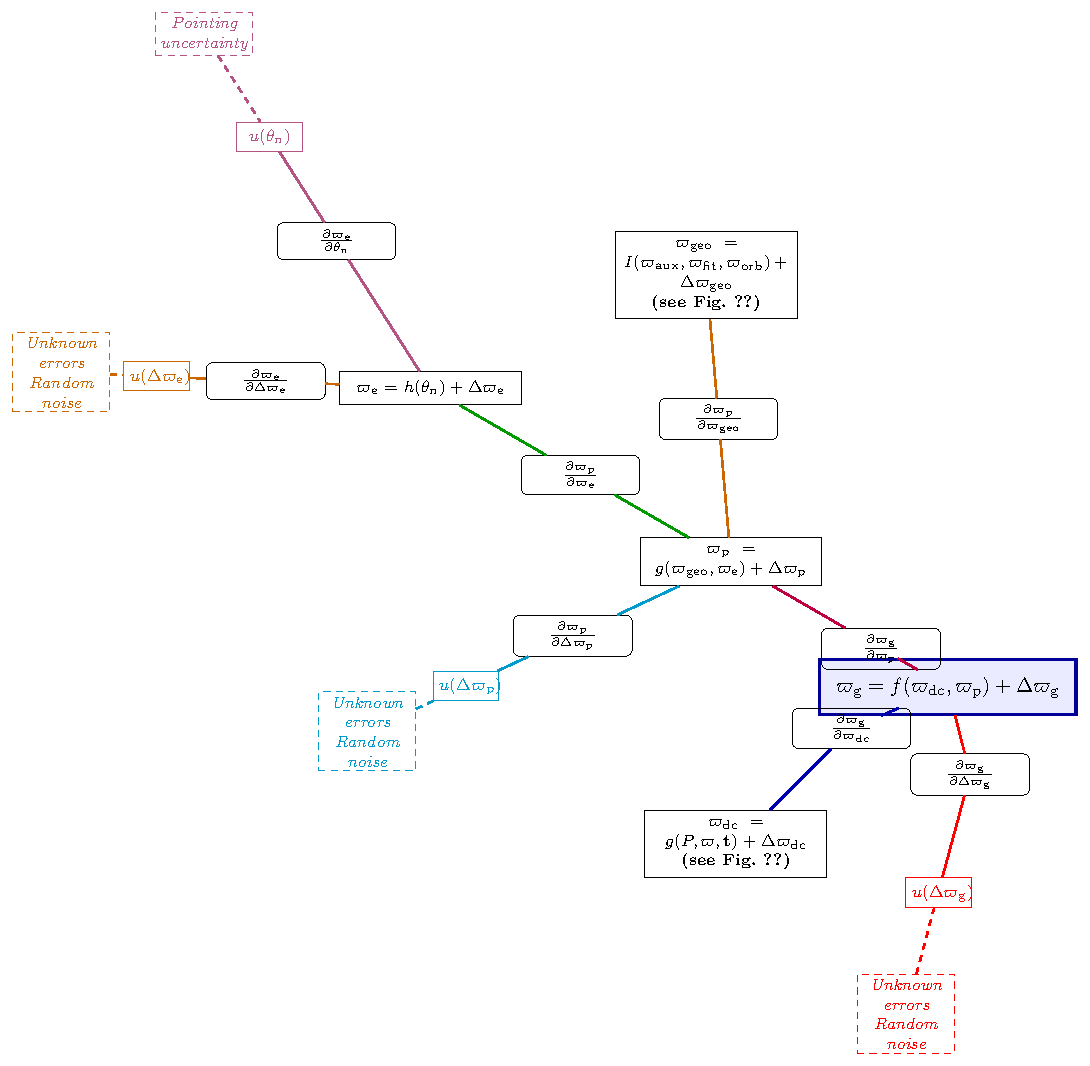
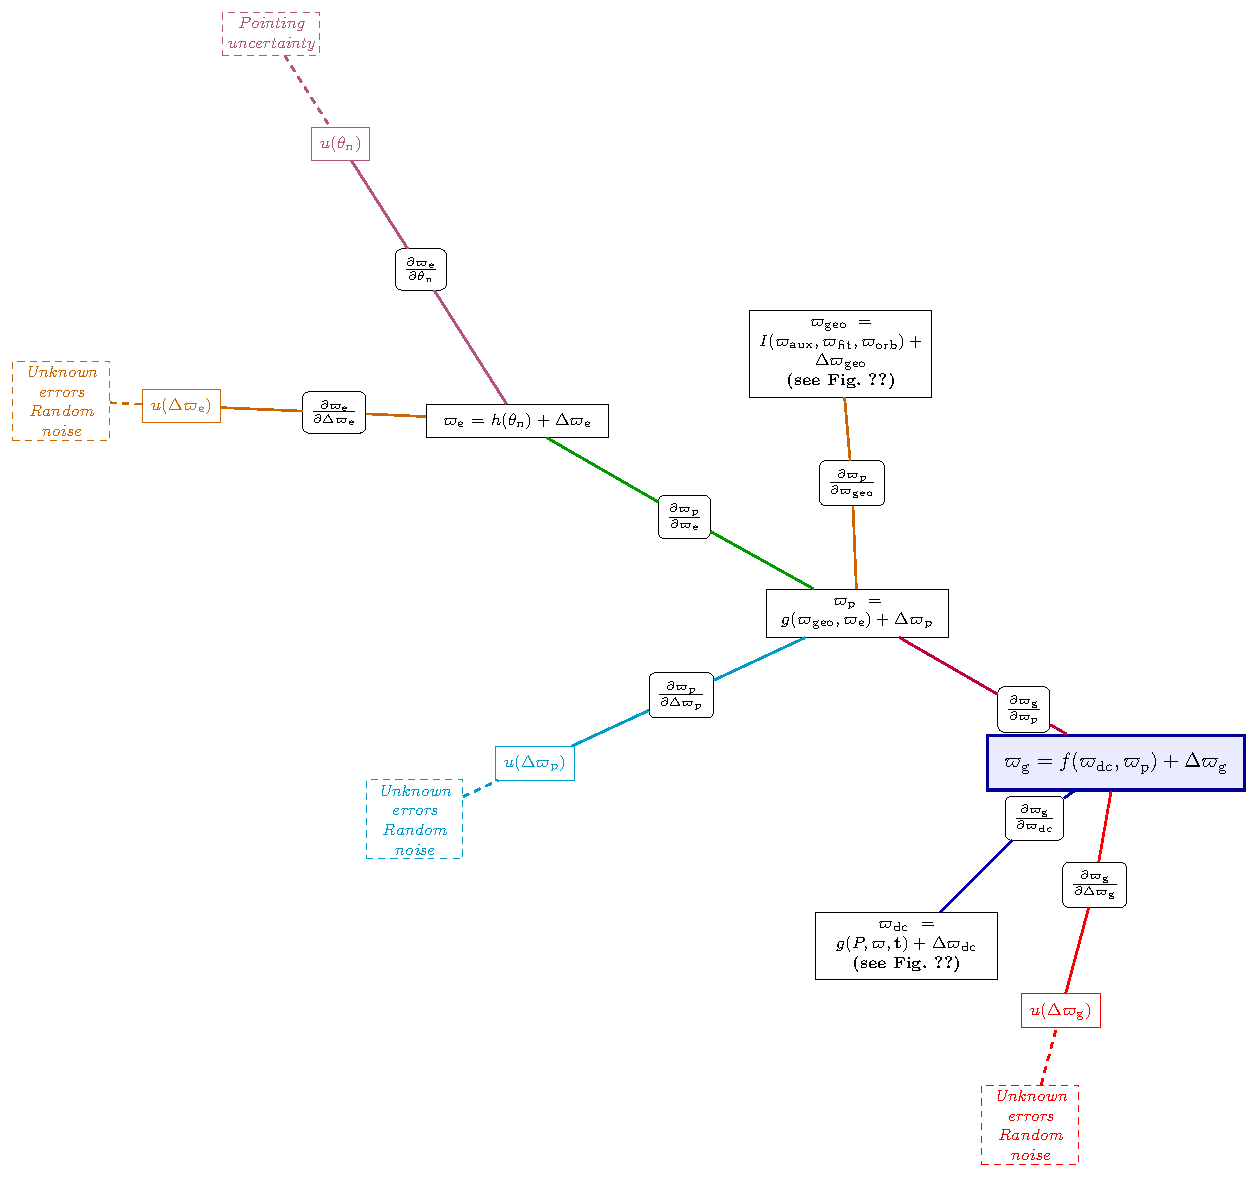
modified figure

diff --git a/scene_calibration.tex b/scene_calibration.tex
@@ -6,74 +6,74 @@
     connection/.style={draw, thick},
     root_block/.style={draw=blue!60!black, very thick, rectangle, fill=blue!8, inner sep=8pt, font=\normalsize\bfseries, align=center},
     model_block/.style={draw, rectangle, inner sep=4pt, font=\footnotesize\bfseries, align=center, text width=2.8cm},
-    deriv_node/.style={draw, rectangle, rounded corners=3pt, inner sep=3pt, font=\footnotesize, align=center, text width=1.8cm},
-    leaf_node/.style={draw, rectangle, inner sep=3pt, font=\footnotesize, align=center, text width=0.9cm},
+    deriv_node/.style={draw, rectangle, rounded corners=3pt, inner sep=4pt, font=\footnotesize, align=center},
+    leaf_node/.style={draw, rectangle, inner sep=4pt, font=\footnotesize, align=center},
     effect_node/.style={draw, dashed, font=\footnotesize\itshape, align=center, text width=1.5cm, inner sep=2pt}
     ]
 		% ROOT: \varpi_{\rm g}
 		\node [root_block] (VARPIRMGROOT) {$\varpi_{\rm g} = f(\varpi_{\rm dc}, \varpi_{\rm p}) + \Delta\varpi_{\rm g}$};
 
 		% ∂\varpi_{\rm g}/∂\Delta\varpi_{\rm g}
-		\node [deriv_node] at ($(VARPIRMGROOT)+(0.38cm,-1.48cm)$) (DDELTAVARPIRMG) {$\frac{\partial \varpi_{\rm g}}{\partial \Delta\varpi_{\rm g}}$};
+		\node [deriv_node] at ($(VARPIRMGROOT)+(-0.36cm,-2.07cm)$) (DDELTAVARPIRMG) {$\frac{\partial \varpi_{\rm g}}{\partial \Delta\varpi_{\rm g}}$};
 		\draw [connection, red] (VARPIRMGROOT) -- (DDELTAVARPIRMG);
-		\node [leaf_node, draw=red, text=red] at ($(VARPIRMGROOT)+(-0.16cm,-3.48cm)$) (UDELTAVARPIRMG) {$u(\Delta\varpi_{\rm g})$};
+		\node [leaf_node, draw=red, text=red] at ($(VARPIRMGROOT)+(-0.93cm,-4.20cm)$) (UDELTAVARPIRMG) {$u(\Delta\varpi_{\rm g})$};
 		\draw [connection, red] (DDELTAVARPIRMG) -- (UDELTAVARPIRMG);
-		\node [effect_node, red] at ($(VARPIRMGROOT)+(-0.71cm,-5.53cm)$) (EFFDELTAVARPIRMG) {Unknown errors \\ Random noise};
+		\node [effect_node, red] at ($(VARPIRMGROOT)+(-1.45cm,-6.13cm)$) (EFFDELTAVARPIRMG) {Unknown errors \\ Random noise};
 		\draw [connection, red, dashed] (EFFDELTAVARPIRMG) -- (UDELTAVARPIRMG);
 
 		% ∂\varpi_{\rm g}/∂\varpi_{\rm dc}
-		\node [deriv_node] at ($(VARPIRMGROOT)+(-1.63cm,-0.70cm)$) (DVARPIRMDC) {$\frac{\partial \varpi_{\rm g}}{\partial \varpi_{\rm dc}}$};
+		\node [deriv_node] at ($(VARPIRMGROOT)+(-1.38cm,-0.94cm)$) (DVARPIRMDC) {$\frac{\partial \varpi_{\rm g}}{\partial \varpi_{\rm dc}}$};
 		\draw [connection, blue!70!black] (VARPIRMGROOT) -- (DVARPIRMDC);
 
 		% sub-model: \varpi_{\rm dc}
-		\node [model_block] at ($(VARPIRMGROOT)+(-3.59cm,-2.66cm)$) (MVARPIRMDC) {$\varpi_{\rm dc} = g(P, \varpi, \mathbf{t}) + \Delta\varpi_{\rm dc}$\\ \footnotesize(see Fig.~\ref{fig:dc_uncertainty_trace})};
+		\node [model_block] at ($(VARPIRMGROOT)+(-3.55cm,-3.11cm)$) (MVARPIRMDC) {$\varpi_{\rm dc} = g(P, \varpi, \mathbf{t}) + \Delta\varpi_{\rm dc}$\\ \footnotesize(see Fig.~\ref{fig:dc_uncertainty_trace})};
 		\draw [connection, blue!70!black] (DVARPIRMDC) -- (MVARPIRMDC);
 
 		% ∂\varpi_{\rm g}/∂\varpi_{\rm p}
-		\node [deriv_node] at ($(VARPIRMGROOT)+(-1.13cm,0.65cm)$) (DVARPIRMP) {$\frac{\partial \varpi_{\rm g}}{\partial \varpi_{\rm p}}$};
+		\node [deriv_node] at ($(VARPIRMGROOT)+(-1.56cm,0.90cm)$) (DVARPIRMP) {$\frac{\partial \varpi_{\rm g}}{\partial \varpi_{\rm p}}$};
 		\draw [connection, purple] (VARPIRMGROOT) -- (DVARPIRMP);
 
 		% sub-model: \varpi_{\rm p}
-		\node [model_block] at ($(VARPIRMGROOT)+(-3.67cm,2.12cm)$) (MVARPIRMP) {$\varpi_{\rm p} = g(\varpi_{\rm geo}, \varpi_{\rm e}) + \Delta\varpi_{\rm p}$};
+		\node [model_block] at ($(VARPIRMGROOT)+(-4.38cm,2.53cm)$) (MVARPIRMP) {$\varpi_{\rm p} = g(\varpi_{\rm geo}, \varpi_{\rm e}) + \Delta\varpi_{\rm p}$};
 		\draw [connection, purple] (DVARPIRMP) -- (MVARPIRMP);
 		% ∂\varpi_{\rm p}/∂\Delta\varpi_{\rm p}
-		\node [deriv_node] at ($(VARPIRMGROOT)+(-6.35cm,0.87cm)$) (DDELTAVARPIRMP) {$\frac{\partial \varpi_{\rm p}}{\partial \Delta\varpi_{\rm p}}$};
+		\node [deriv_node] at ($(VARPIRMGROOT)+(-7.36cm,1.14cm)$) (DDELTAVARPIRMP) {$\frac{\partial \varpi_{\rm p}}{\partial \Delta\varpi_{\rm p}}$};
 		\draw [connection, cyan!80!black] (MVARPIRMP) -- (DDELTAVARPIRMP);
-		\node [leaf_node, draw=cyan!80!black, text=cyan!80!black] at ($(VARPIRMGROOT)+(-8.16cm,0.02cm)$) (UDELTAVARPIRMP) {$u(\Delta\varpi_{\rm p})$};
+		\node [leaf_node, draw=cyan!80!black, text=cyan!80!black] at ($(VARPIRMGROOT)+(-9.84cm,-0.01cm)$) (UDELTAVARPIRMP) {$u(\Delta\varpi_{\rm p})$};
 		\draw [connection, cyan!80!black] (DDELTAVARPIRMP) -- (UDELTAVARPIRMP);
-		\node [effect_node, cyan!80!black] at ($(VARPIRMGROOT)+(-9.83cm,-0.75cm)$) (EFFDELTAVARPIRMP) {Unknown errors \\ Random noise};
+		\node [effect_node, cyan!80!black] at ($(VARPIRMGROOT)+(-11.88cm,-0.96cm)$) (EFFDELTAVARPIRMP) {Unknown errors \\ Random noise};
 		\draw [connection, cyan!80!black, dashed] (EFFDELTAVARPIRMP) -- (UDELTAVARPIRMP);
 
 		% ∂\varpi_{\rm p}/∂\varpi_{\rm e}
-		\node [deriv_node] at ($(VARPIRMGROOT)+(-6.22cm,3.59cm)$) (DVARPIRME) {$\frac{\partial \varpi_{\rm p}}{\partial \varpi_{\rm e}}$};
+		\node [deriv_node] at ($(VARPIRMGROOT)+(-7.31cm,4.16cm)$) (DVARPIRME) {$\frac{\partial \varpi_{\rm p}}{\partial \varpi_{\rm e}}$};
 		\draw [connection, green!60!black] (MVARPIRMP) -- (DVARPIRME);
 
 		% sub-model: \varpi_{\rm e}
-		\node [model_block] at ($(VARPIRMGROOT)+(-8.76cm,5.06cm)$) (MVARPIRME) {$\varpi_{\rm e} = h(\theta_{\rm n}) + \Delta\varpi_{\rm e}$};
+		\node [model_block] at ($(VARPIRMGROOT)+(-10.14cm,5.79cm)$) (MVARPIRME) {$\varpi_{\rm e} = h(\theta_{\rm n}) + \Delta\varpi_{\rm e}$};
 		\draw [connection, green!60!black] (DVARPIRME) -- (MVARPIRME);
 		% ∂\varpi_{\rm e}/∂\Delta\varpi_{\rm e}
-		\node [deriv_node] at ($(VARPIRMGROOT)+(-11.55cm,5.18cm)$) (DDELTAVARPIRME) {$\frac{\partial \varpi_{\rm e}}{\partial \Delta\varpi_{\rm e}}$};
+		\node [deriv_node] at ($(VARPIRMGROOT)+(-13.24cm,5.93cm)$) (DDELTAVARPIRME) {$\frac{\partial \varpi_{\rm e}}{\partial \Delta\varpi_{\rm e}}$};
 		\draw [connection, orange!80!black] (MVARPIRME) -- (DDELTAVARPIRME);
-		\node [leaf_node, draw=orange!80!black, text=orange!80!black] at ($(VARPIRMGROOT)+(-13.40cm,5.26cm)$) (UDELTAVARPIRME) {$u(\Delta\varpi_{\rm e})$};
+		\node [leaf_node, draw=orange!80!black, text=orange!80!black] at ($(VARPIRMGROOT)+(-15.82cm,6.04cm)$) (UDELTAVARPIRME) {$u(\Delta\varpi_{\rm e})$};
 		\draw [connection, orange!80!black] (DDELTAVARPIRME) -- (UDELTAVARPIRME);
-		\node [effect_node, orange!80!black] at ($(VARPIRMGROOT)+(-15.01cm,5.33cm)$) (EFFDELTAVARPIRME) {Unknown errors \\ Random noise};
+		\node [effect_node, orange!80!black] at ($(VARPIRMGROOT)+(-17.86cm,6.13cm)$) (EFFDELTAVARPIRME) {Unknown errors \\ Random noise};
 		\draw [connection, orange!80!black, dashed] (EFFDELTAVARPIRME) -- (UDELTAVARPIRME);
 
 		% ∂\varpi_{\rm e}/∂\theta_{\rm n}
-		\node [deriv_node] at ($(VARPIRMGROOT)+(-10.35cm,7.55cm)$) (DTHETARMN) {$\frac{\partial \varpi_{\rm e}}{\partial \theta_{\rm n}}$};
+		\node [deriv_node] at ($(VARPIRMGROOT)+(-11.77cm,8.35cm)$) (DTHETARMN) {$\frac{\partial \varpi_{\rm e}}{\partial \theta_{\rm n}}$};
 		\draw [connection, magenta!70!black] (MVARPIRME) -- (DTHETARMN);
-		\node [leaf_node, draw=magenta!70!black, text=magenta!70!black] at ($(VARPIRMGROOT)+(-11.48cm,9.32cm)$) (UTHETARMN) {$u(\theta_{\rm n})$};
+		\node [leaf_node, draw=magenta!70!black, text=magenta!70!black] at ($(VARPIRMGROOT)+(-13.13cm,10.48cm)$) (UTHETARMN) {$u(\theta_{\rm n})$};
 		\draw [connection, magenta!70!black] (DTHETARMN) -- (UTHETARMN);
-		\node [effect_node, magenta!70!black] at ($(VARPIRMGROOT)+(-12.59cm,11.06cm)$) (EFFTHETARMN) {Pointing uncertainty};
+		\node [effect_node, magenta!70!black] at ($(VARPIRMGROOT)+(-14.31cm,12.34cm)$) (EFFTHETARMN) {Pointing uncertainty};
 		\draw [connection, magenta!70!black, dashed] (EFFTHETARMN) -- (UTHETARMN);
 
 
 		% ∂\varpi_{\rm p}/∂\varpi_{\rm geo}
-		\node [deriv_node] at ($(VARPIRMGROOT)+(-3.88cm,4.54cm)$) (DVARPIRMGEO) {$\frac{\partial \varpi_{\rm p}}{\partial \varpi_{\rm geo}}$};
+		\node [deriv_node] at ($(VARPIRMGROOT)+(-4.47cm,4.73cm)$) (DVARPIRMGEO) {$\frac{\partial \varpi_{\rm p}}{\partial \varpi_{\rm geo}}$};
 		\draw [connection, orange!80!black] (MVARPIRMP) -- (DVARPIRMGEO);
 
 		% sub-model: \varpi_{\rm geo}
-		\node [model_block] at ($(VARPIRMGROOT)+(-4.09cm,6.97cm)$) (MVARPIRMGEO) {$\varpi_{\rm geo} = I(\varpi_{\rm aux}, \varpi_{\rm fit}, \varpi_{\rm orb}) + \Delta\varpi_{\rm geo}$\\ \footnotesize(see Fig.~\ref{fig:utd_varpi_geo})};
+		\node [model_block] at ($(VARPIRMGROOT)+(-4.66cm,6.92cm)$) (MVARPIRMGEO) {$\varpi_{\rm geo} = I(\varpi_{\rm aux}, \varpi_{\rm fit}, \varpi_{\rm orb}) + \Delta\varpi_{\rm geo}$\\ \footnotesize(see Fig.~\ref{fig:utd_varpi_geo})};
 		\draw [connection, orange!80!black] (DVARPIRMGEO) -- (MVARPIRMGEO);
 
 